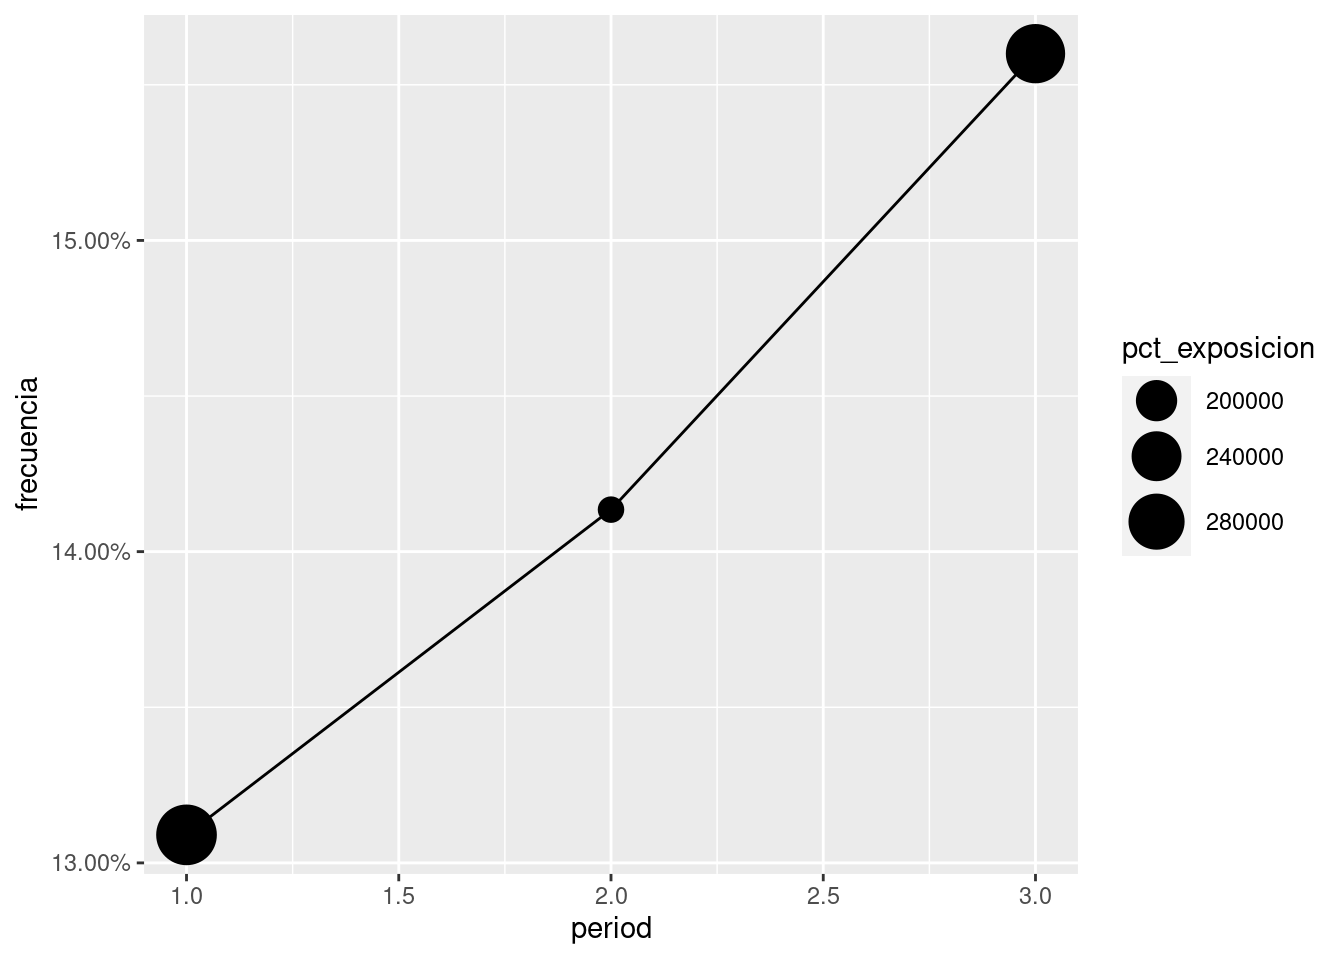
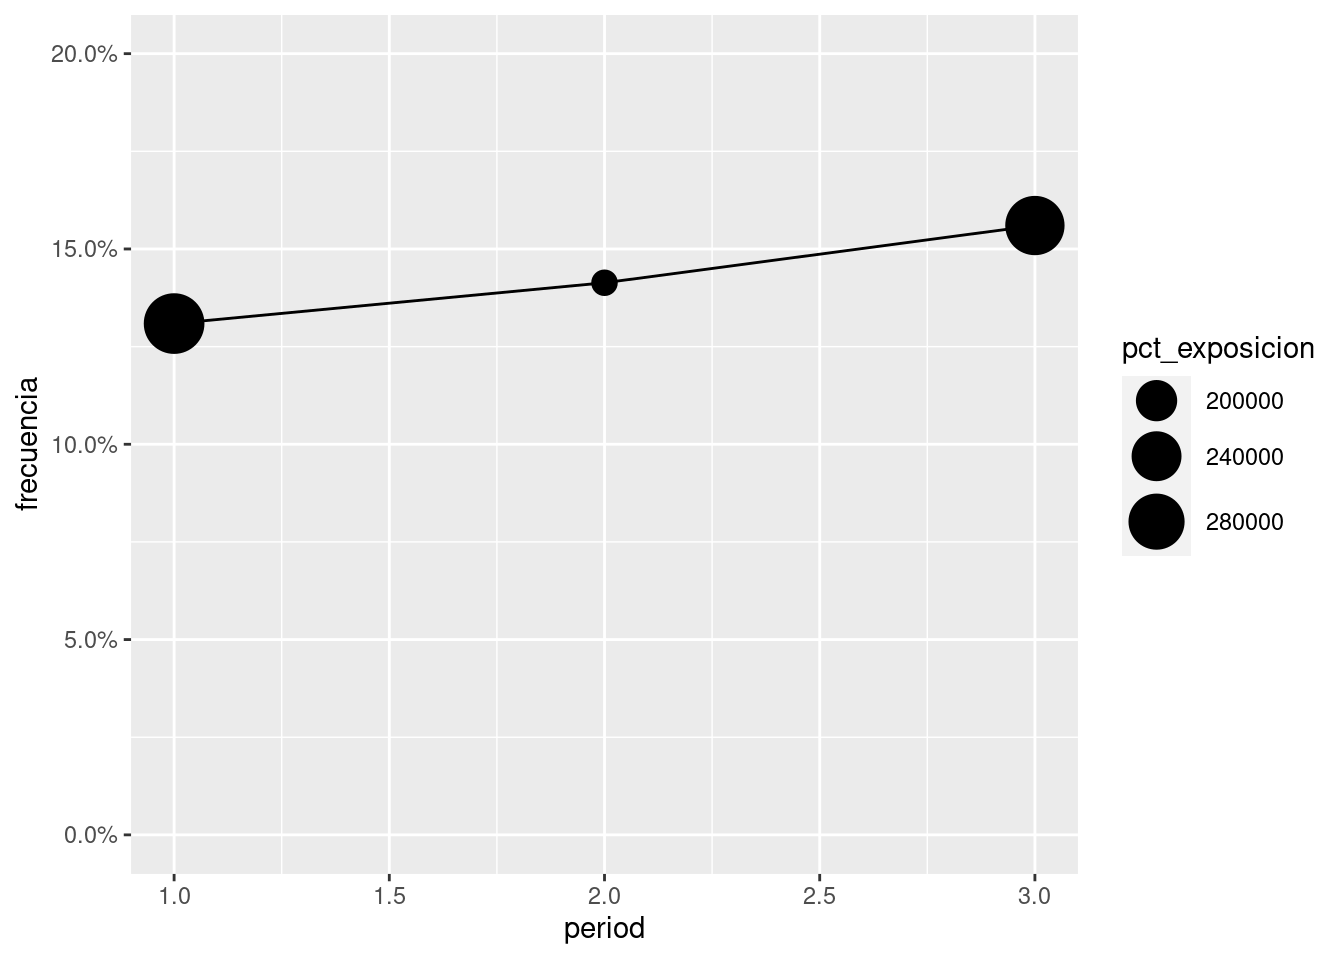
update plot

diff --git a/content/post/2021-08-18-eje-y-secundario-1-n.html b/content/post/2021-08-18-eje-y-secundario-1-n.html
@@ -28,7 +28,7 @@ resumen &lt;- df %&gt;% group_by(period) %&gt;%
 
 g2 &lt;- ggplot(resumen,aes(x = period)) + 
   geom_col(aes(y = pct_exposicion), fill=&quot;yellow&quot;,alpha=0.7) + 
-  geom_line(aes(y=frecuencia * 500000 , group=), group = 1,color=&quot;red&quot;) + 
+  geom_line(aes(y=frecuencia * 500000 ), group = 1,color=&quot;red&quot;) + 
   geom_text(aes(y = frecuencia * 500000, label = paste(round(frecuencia*100),&#39;%&#39;)),
             vjust = 1.4, color = &quot;red&quot;, size = 2) +
   scale_y_continuous(sec.axis = sec_axis(~.* 500000, name = &quot;Frecuencia [%]&quot;)) 
@@ -67,6 +67,6 @@ Me gusta aún menos este gráfico, yo propongo el siguiente en su lugar.</p>
   geom_point(aes(size=pct_exposicion)) + 
   geom_line() +
   scale_size_continuous(range=c(4, 10)) +
-  scale_y_continuous(labels = scales::percent)</code></pre>
+  scale_y_continuous(labels = scales::percent, limits = c(0,0.2))</code></pre>
 <p><img src="/post/2021-08-18-eje-y-secundario-1-n_files/figure-html/unnamed-chunk-5-1.png" width="672" />
 Dónde representamos la variable frecuencia en el eje de ordenadas y con el tamaño de los puntos representamos la otra variable.</p>
